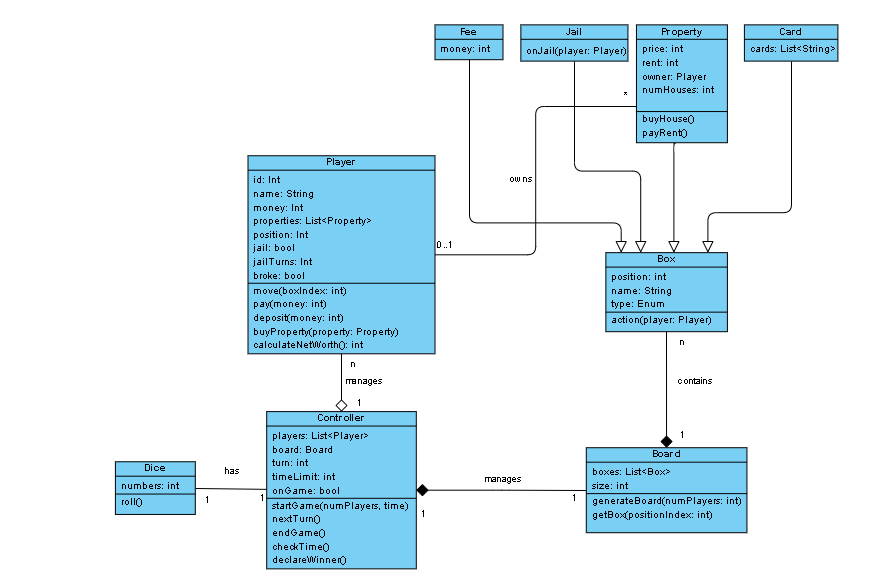
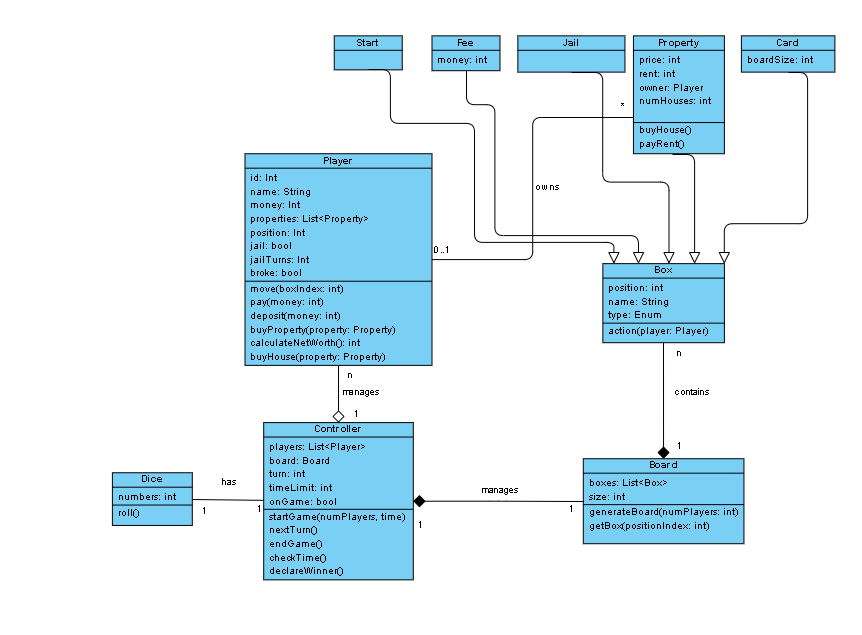
Implemented Player Class +test for it, implemented Box classes,no test for them yet

Changed region(s): [[0.1206, 0.0307, 0.9954, 0.9813], [0.8144, 0.3373, 0.935, 0.368], [0.5429, 0.1533, 0.5731, 0.184]]

diff --git a/app/src/test/java/game/model/PlayerTest.kt b/app/src/test/java/game/model/PlayerTest.kt
@@ -1,6 +1,138 @@
 package game.model
+
+import game.model.box.Property
 import org.junit.jupiter.api.Test
 import org.junit.jupiter.api.Assertions.*
+import org.junit.jupiter.api.BeforeEach
+import org.junit.jupiter.api.DisplayName
 
 class PlayerTest {
+    lateinit var player1: Player
+    lateinit var property: Property
+
+    @BeforeEach
+    fun setUp() {
+        player1 = Player("Player1", 0, 1000)
+    }
+
+
+    @Test
+    @DisplayName("Move")
+    fun testMove() {
+        assertEquals(0, player1.position)
+        player1.move(3)
+        assertEquals(3, player1.position)
+    }
+
+
+    @Test
+    @DisplayName("Decrease money")
+    fun testMoneyPay() {
+        player1.pay(100)
+
+        assertEquals(900, player1.money)
+    }
+
+    @Test
+    @DisplayName("Pay and don't have money")
+    fun testCantMoneyPay() {
+        player1.pay(1100)
+
+        assertTrue(player1.broke)
+    }
+
+
+    @Test
+    @DisplayName("Deposit on player increase money")
+    fun testMoneyDeposit() {
+        player1.deposit(100)
+
+        assertEquals(1100, player1.money)
+    }
+
+    fun initPropertyAndBuy() {
+        property = Property(0, "HOUSE", 100, 10, 50)
+        player1.buyProperty(property)
+    }
+
+    @Test
+    @DisplayName("Buy property correctly")
+    fun testBuyPropertyCorrect() {
+        initPropertyAndBuy()
+
+        assertEquals(property, player1.properties[0])
+        assertEquals(900, player1.money)
+        assertEquals(player1, property.owner)
+    }
+
+    @Test
+    @DisplayName("Cant buy property due to price")
+    fun testCantBuyPropertyCorrect() {
+        val expensiveProperty = Property(1, "MANSION", 5000, 500, 200)
+
+        player1.buyProperty(expensiveProperty)
+
+        assertTrue(player1.properties.isEmpty())
+        assertEquals(1000, player1.money)
+    }
+
+
+    @Test
+    @DisplayName("Buy house correct")
+    fun testCanBuyHouse() {
+        initPropertyAndBuy()
+        val myProperty = player1.properties[0]
+
+        val moneyBeforeHouse = player1.money
+
+        player1.buyHouse(myProperty)
+
+        assertEquals(1, myProperty.numHouses)
+        assertEquals(moneyBeforeHouse - myProperty.housePrice, player1.money)
+    }
+
+    @Test
+    @DisplayName("Cant buy house if not owner")
+    fun testCantBuyHouseNotOwner() {
+        val foreignProperty = Property(2, "STREET", 100, 10, 50)
+
+        player1.buyHouse(foreignProperty)
+
+        assertEquals(0, foreignProperty.numHouses)
+        assertEquals(1000, player1.money)
+    }
+
+    @Test
+    @DisplayName("Cant buy more than 5 houses (Limit check)")
+    fun testHouseLimit() {
+        initPropertyAndBuy()
+        val myProperty = player1.properties[0]
+        val moneyBeforeHouses = player1.money
+
+        for (i in 1..6) {
+            player1.buyHouse(myProperty)
+        }
+
+        assertEquals(5, myProperty.numHouses)
+
+        assertEquals(moneyBeforeHouses - (5 * myProperty.housePrice), player1.money)
+    }
+
+
+    @Test
+    @DisplayName("Property networth with house and property and money")
+    fun testNetworth() {
+        initPropertyAndBuy()
+        assertEquals(1000, player1.calculateNetworth())
+
+        player1.buyHouse(property)
+        assertEquals(1000, player1.calculateNetworth())
+
+        player1.pay(100)
+        assertEquals(900, player1.calculateNetworth())
+
+        player1.deposit(100)
+        assertEquals(1000, player1.calculateNetworth())
+    }
+
 }

diff --git a/app/src/main/java/game/model/Player.kt b/app/src/main/java/game/model/Player.kt
@@ -1,4 +1,110 @@
 package game.model
 
-class Player {
+import game.model.box.Property
+
+class Player(
+    val name: String,
+    val id: Int,
+    var money: Int,
+) {
+    var properties: MutableList<Property> = mutableListOf()
+        private set
+    var position: Int = 0
+        private set
+    var jail: Boolean = false
+    var jailTurns: Int = 0
+    var broke: Boolean = false
+        private set
+
+    /**
+     * Move the players to a position
+     *
+     * @param boxIndex the position
+     */
+    fun move(boxIndex: Int) {
+        position = boxIndex
+    }
+
+    /**
+     * Tries to pay money
+     *
+     * @param money the amount of money
+     */
+    fun pay(amount: Int) {
+        if (money < amount) {
+            // Can't pay it -> broke
+            broke = true
+        } else {
+            // Pay
+            money -= amount
+        }
+    }
+
+    /**
+     * Deposit money
+     *
+     * @param money the quantity of money to gain
+     */
+    fun deposit(amount: Int) {
+        money += amount
+    }
+
+    /**
+     * Tries to buy a property
+     *
+     * @param property the property
+     */
+    fun buyProperty(property: Property) {
+        if (money < property.price) {
+            // Can't afford it -> will send message
+        } else {
+            // Pay the property
+            pay(property.price)
+            // Save the property
+            properties.add(property)
+            // Assign the property
+            property.owner = this
+        }
+    }
+
+    /**
+     * Buy a house
+     * @param property the property where to build
+     */
+    fun buyHouse(property: Property) {
+        if (property.owner != this) {
+            // Cant buy if im not owner
+            return
+        }
+
+        if (property.numHouses >= 5) {
+            // Just five houses maximum
+            return
+        }
+
+        if (money < property.housePrice) {
+            // buy if we have money
+            return
+        }
+
+        // Buy it
+        pay(property.housePrice)
+        property.numHouses += 1
+    }
+
+    /**
+     * Calculate the networth
+     *
+     * @return the amount of money
+     */
+    fun calculateNetworth(): Int {
+        var totalNetworth: Int = money
+
+        for (property in properties){
+            totalNetworth += property.housePrice * property.numHouses
+            totalNetworth += property.price
+        }
+
+        return totalNetworth
+    }
 }

diff --git a/app/src/main/java/game/model/box/Card.kt b/app/src/main/java/game/model/box/Card.kt
@@ -1,4 +1,32 @@
 package game.model.box
 
-class Card {
+import game.model.Player
+import kotlin.random.Random
+
+class Card(
+    position: Int,
+    name: String,
+    val boardSize: Int
+) : Box(position, name, BoxType.CARD) {
+
+    override fun action(player: Player) {
+        // Pick a random card
+        val card = CardType.entries.random()
+
+        // Execute the operation
+        when (card) {
+            CardType.RECEIVE_MONEY -> {
+                player.deposit(100)
+            }
+
+            CardType.PAY_MONEY -> {
+                player.pay(100)
+            }
+
+            CardType.MOVE_TO -> {
+                val position = Random.nextInt(0, boardSize)
+                player.move(position)
+            }
+        }
+    }
 }

diff --git a/app/src/main/java/game/model/box/Property.kt b/app/src/main/java/game/model/box/Property.kt
@@ -1,4 +1,28 @@
 package game.model.box
 
-class Property {
+import game.model.Player
+
+class Property(
+    position: Int,
+    name: String,
+    val price: Int,
+    val rent: Int,
+    val housePrice: Int
+) : Box(position, name, BoxType.PROPERTY) {
+
+    var owner: Player? = null
+    var numHouses: Int = 0
+
+    override fun action(player: Player) {
+        if (owner != null && owner != player) {
+            // Someone felt on a property:
+            // Not my house, not buy
+            val currentRent = rent + (numHouses * housePrice / 2)
+
+            // Make the player pay
+            player.pay(currentRent)
+            // Give the money for the owner
+            owner?.deposit(currentRent)
+        }
+    }
 }

diff --git a/app/src/main/java/game/model/box/Jail.kt b/app/src/main/java/game/model/box/Jail.kt
@@ -1,4 +1,15 @@
 package game.model.box
 
-class Jail {
+import game.model.Player
+
+class Jail
+    (
+    position: Int,
+    name: String,
+) : Box(position, name, BoxType.JAIL) {
+
+    override fun action(player: Player) {
+        player.jail = true
+        player.jailTurns = 3
+    }
 }

diff --git a/app/src/main/java/game/model/box/Box.kt b/app/src/main/java/game/model/box/Box.kt
@@ -1,4 +1,14 @@
 package game.model.box
 
-class Box {
+import game.model.Player
+
+abstract class Box(
+    val position: Int,
+    val name: String,
+    val type: BoxType
+) {
+    /**
+     * Make an action on the box
+     */
+    abstract fun action(player: Player)
 }

diff --git a/app/src/main/java/game/model/box/BoxType.kt b/app/src/main/java/game/model/box/BoxType.kt
@@ -1,0 +1,5 @@
+package game.model.box
+
+enum class BoxType {
+    PROPERTY, FEE, JAIL, START, CARD
+}

diff --git a/app/src/main/java/game/model/box/CardType.kt b/app/src/main/java/game/model/box/CardType.kt
@@ -1,0 +1,5 @@
+package game.model.box
+
+enum class CardType {
+    RECEIVE_MONEY, PAY_MONEY, MOVE_TO
+}